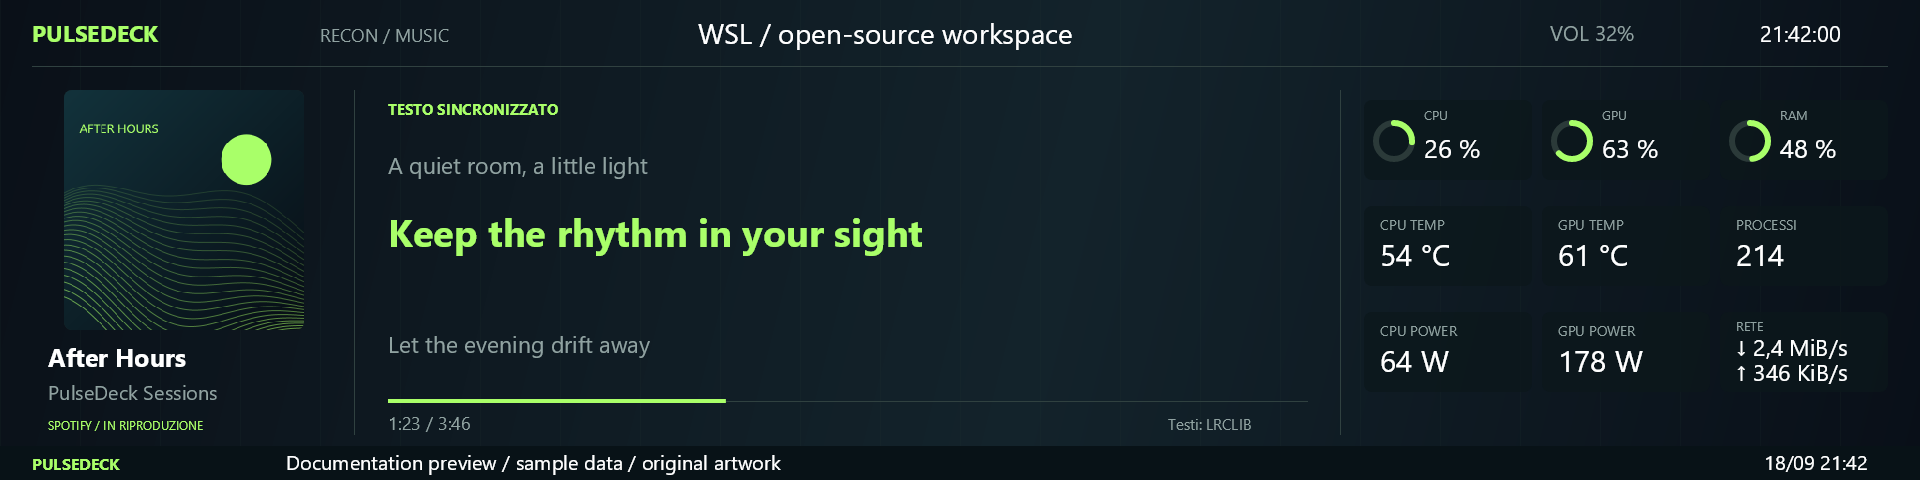
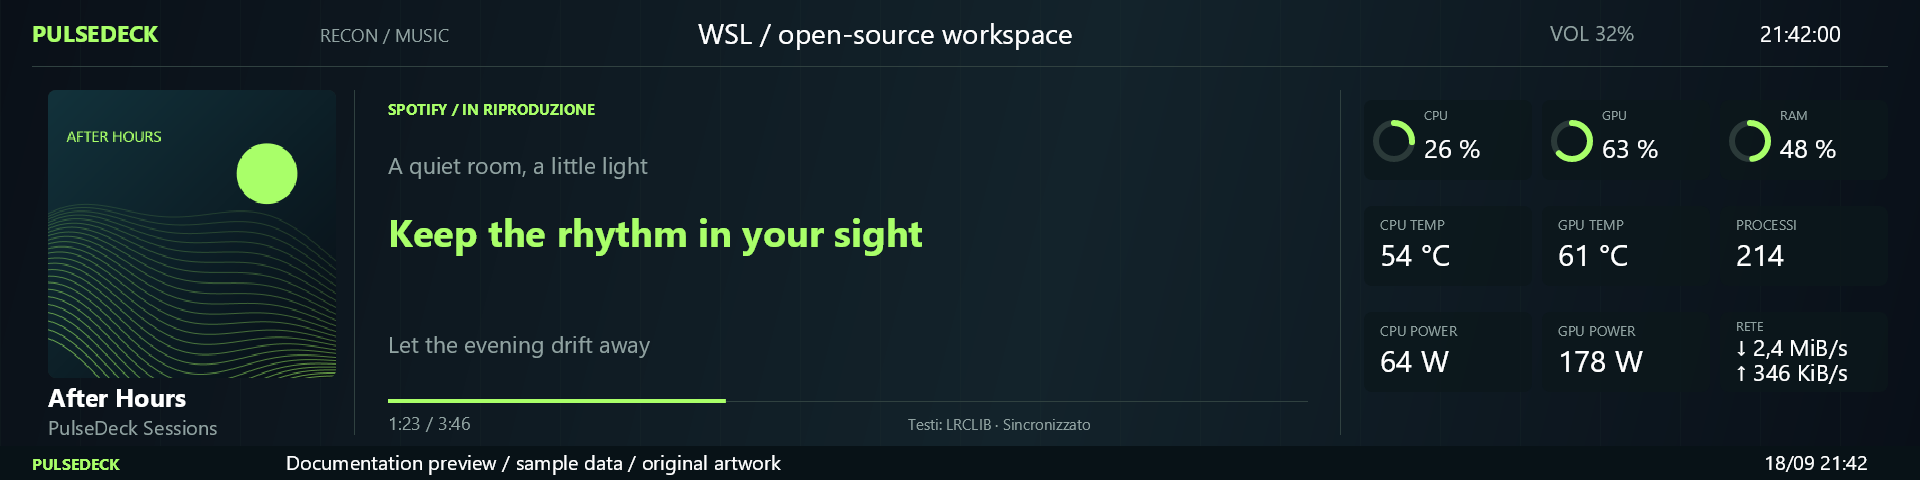
feat(music): enlarge cover and move playback status above lyrics
Grow the Music cover to 288px and place Spotify playback state above the lyrics. Move synchronization/page details beside LRCLIB attribution, preserving the nine-sensor composition.

Pass 23 renderer tests, build and deploy 0.7.4 with preserved runtime settings, and verify the live Music preview and display acknowledgements. Refresh the public gallery and draft release notes to match.

diff --git a/apps/configurator/src/app/app.component.html b/apps/configurator/src/app/app.component.html
@@ -30,6 +30,6 @@
     } @else {
       @if (deck.config(); as config) { <pd-settings [newsState]="deck.state()?.news ?? null" [config]="config" [busy]="deck.busy()" (save)="save($event)" /> }
     }
-    <footer><span>PULSEDECK / LOCAL DISPLAY ENGINE</span><button class="button" [disabled]="!deck.connected()" (click)="deck.stop()">Arresta PulseDeck</button><span>v0.7.3 · Windows</span></footer>
+    <footer><span>PULSEDECK / LOCAL DISPLAY ENGINE</span><button class="button" [disabled]="!deck.connected()" (click)="deck.stop()">Arresta PulseDeck</button><span>v0.7.4 · Windows</span></footer>
   </main>
 </div>

diff --git a/apps/agent/Rendering/DeckRenderer.cs b/apps/agent/Rendering/DeckRenderer.cs
@@ -334,14 +334,16 @@ public sealed class DeckRenderer : IDisposable
         }
         void SpotifyPanel()
         {
-            Cover(64, 90, 240);
-            Text(state.Media.Title.Length > 0 ? state.Media.Title : "Spotify", 48, 367, 25, heavy: true, maxWidth: 290, minimumSize: 19);
-            Text(state.Media.Artist, 48, 400, 20, muted, maxWidth: 290);
-            Text(state.Media.Playing ? "SPOTIFY / IN RIPRODUZIONE" : "SPOTIFY / IN PAUSA", 48, 430, 12, accent, maxWidth: 290);
+            Cover(48, 90, 288);
+            Text(state.Media.Title.Length > 0 ? state.Media.Title : "Spotify", 48, 407, 25, heavy: true, maxWidth: 290, minimumSize: 19);
+            Text(state.Media.Artist, 48, 435, 20, muted, maxWidth: 290);
             canvas.DrawLine(354, 90, 354, 435, line);
             canvas.DrawLine(1340, 90, 1340, 435, line);
             for (var i = 0; i < 9; i++) WidgetCard(i, 1364 + i % 3 * 178, 100 + i / 3 * 106, 168);
             const float x = 388, width = 920;
+            Text(state.SpotifyTransition ? "SPOTIFY / CAMBIO BRANO"
+                : state.Media.Playing ? "SPOTIFY / IN RIPRODUZIONE" : "SPOTIFY / IN PAUSA", x, 115, 15, accent, true, width);
+            var lyricsCredit = "Testi: LRCLIB";
             List<string> Wrap(string value, float size)
             {
                 using var font = new SKFont(bold, size);
@@ -357,12 +359,11 @@ public sealed class DeckRenderer : IDisposable
             }
             if (state.SpotifyTransition || state.Lyrics.Status == "loading")
             {
-                Text("SPOTIFY", x, 115, 15, accent, true);
                 Text(state.SpotifyTransition ? "Cambio brano…" : "Caricamento del testo…", x, 247, 32, muted, maxWidth: width);
             }
             else if (state.Lyrics.Status == "synced" && state.Lyrics.Lines is { } lines)
             {
-                Text("TESTO SINCRONIZZATO", x, 115, 15, accent, true);
+                lyricsCredit += " · Sincronizzato";
                 var index = state.Lyrics.CurrentLine(state.Media.PositionSeconds);
                 if (index > 0) Text(lines[index - 1].Text, x, 174, 23, muted, maxWidth: width);
                 var current = index >= 0 ? lines[index].Text : "";
@@ -375,7 +376,7 @@ public sealed class DeckRenderer : IDisposable
                 var rows = (state.Lyrics.PlainText ?? "").Split('\n').SelectMany(row => Wrap(row.Trim(), 26)).ToArray();
                 var pages = Math.Max(1, (rows.Length + 5) / 6);
                 var page = (int)(state.Timestamp.ToUnixTimeSeconds() / 15 % pages);
-                Text($"TESTO NON SINCRONIZZATO · {page + 1}/{pages}", x, 115, 15, muted);
+                lyricsCredit += $" · Non sincronizzato · {page + 1}/{pages}";
                 for (var i = 0; i < 6 && page * 6 + i < rows.Length; i++) Text(rows[page * 6 + i], x, 163 + i * 36, 26, maxWidth: width);
             }
             canvas.DrawLine(x, 401, x + width, 401, line);
@@ -384,7 +385,7 @@ public sealed class DeckRenderer : IDisposable
             if (duration > 0) canvas.DrawRect(x, 399, (float)(position / duration) * width, 4, accentPaint);
             Text(duration > 0 ? TimeSpan.FromSeconds(position).ToString(@"m\:ss") + " / "
                 + TimeSpan.FromSeconds(duration).ToString(@"m\:ss") : "— / —", x, 430, 18, muted);
-            Text("Testi: LRCLIB", x + width - 140, 430, 15, muted, maxWidth: 140);
+            Text(lyricsCredit, x + width - 400, 430, 15, muted, maxWidth: 400);
         }
         void VoiceHeader()
         {

diff --git a/apps/agent/Program.cs b/apps/agent/Program.cs
@@ -16,7 +16,7 @@ builder.Services.AddHttpClient("youtube-artwork", client =>
     { client.Timeout = TimeSpan.FromSeconds(1); client.MaxResponseContentBufferSize = MediaArtwork.MaximumBytes; })
     .ConfigurePrimaryHttpMessageHandler(() => new HttpClientHandler { AllowAutoRedirect = false, UseCookies = false });
 builder.Services.AddSingleton<MediaProvider>();
-builder.Services.AddHttpClient("lyrics", client => { client.Timeout = TimeSpan.FromSeconds(8); client.MaxResponseContentBufferSize = 256 * 1024; client.DefaultRequestHeaders.UserAgent.ParseAdd("PulseDeck/0.7.3"); })
+builder.Services.AddHttpClient("lyrics", client => { client.Timeout = TimeSpan.FromSeconds(8); client.MaxResponseContentBufferSize = 256 * 1024; client.DefaultRequestHeaders.UserAgent.ParseAdd("PulseDeck/0.7.4"); })
     .ConfigurePrimaryHttpMessageHandler(() => new HttpClientHandler { AllowAutoRedirect = false, UseCookies = false });
 builder.Services.AddSingleton(p => new LyricsProvider(p.GetRequiredService<IHttpClientFactory>().CreateClient("lyrics"), p.GetRequiredService<ConfigStore>()));
 builder.Services.AddSingleton<InstalledGameCatalog>();
@@ -35,7 +35,7 @@ builder.Services.AddHttpClient("game-artwork", client => { client.Timeout = Time
 builder.Services.AddSingleton(provider => new GameArtworkProvider(provider.GetRequiredService<IHttpClientFactory>().CreateClient("game-artwork"), provider.GetRequiredService<ConfigStore>(), provider.GetRequiredService<SteamGridArtwork>()));
 builder.Services.AddHttpClient("weather", client => { client.Timeout = TimeSpan.FromSeconds(5); client.MaxResponseContentBufferSize = 65536; });
 builder.Services.AddSingleton(provider => new WeatherFeed(provider.GetRequiredService<IHttpClientFactory>().CreateClient("weather")));
-builder.Services.AddHttpClient("news", client => { client.Timeout = TimeSpan.FromSeconds(8); client.DefaultRequestHeaders.UserAgent.ParseAdd("PulseDeck/0.7.3"); })
+builder.Services.AddHttpClient("news", client => { client.Timeout = TimeSpan.FromSeconds(8); client.DefaultRequestHeaders.UserAgent.ParseAdd("PulseDeck/0.7.4"); })
     .ConfigurePrimaryHttpMessageHandler(NewsHttp.CreateHandler);
 builder.Services.AddSingleton(provider => new NewsFeed(provider.GetRequiredService<IHttpClientFactory>().CreateClient("news")));
 builder.Services.AddSingleton<EmbeddedDiscordService>();

diff --git a/tests/PulseDeck.Rendering.Tests/RendererTests.cs b/tests/PulseDeck.Rendering.Tests/RendererTests.cs
@@ -7,6 +7,19 @@ using Xunit;
 public class RendererTests
 {
     [Fact]
+    public void MusicPlaybackStatusChangesLyricsHeaderWithoutChangingCoverColumn()
+    {
+        using var renderer = new DeckRenderer();
+        var media = new MediaSnapshot(true, "Synthetic track", "Artist", "Spotify.exe", 2, 180, "connected");
+        var state = State with { Profile = "music", Media = media, Lyrics = new("synced", SpotifyLyrics.Key(media), [new(0, "Original fixture line")]) };
+        var playing = renderer.Render(state, new());
+        var paused = renderer.Render(state with { Media = media with { Playing = false } }, new());
+        for (var y = 90; y < 440; y++)
+            Assert.True(playing.Pixels.AsSpan((y * 1920 + 32) * 4, 322 * 4).SequenceEqual(paused.Pixels.AsSpan((y * 1920 + 32) * 4, 322 * 4)));
+        Assert.Contains(Enumerable.Range(90, 30), y =>
+            !playing.Pixels.AsSpan((y * 1920 + 388) * 4, 920 * 4).SequenceEqual(paused.Pixels.AsSpan((y * 1920 + 388) * 4, 920 * 4)));
+    }
+    [Fact]
     public void MusicRamShowsOnlyPercentageWhileDesktopKeepsCapacity()
     {
         using var renderer = new DeckRenderer();

diff --git a/scripts/package-release.py b/scripts/package-release.py
@@ -10,7 +10,7 @@ from pathlib import Path
 
 root = Path(__file__).resolve().parent.parent
 parser = argparse.ArgumentParser(description=__doc__)
-parser.add_argument('--tag', required=True, help='Version label, e.g. v0.7.3')
+parser.add_argument('--tag', required=True, help='Version label, e.g. v0.7.4')
 args = parser.parse_args()
 version = ET.parse(root / 'apps/agent/PulseDeck.Agent.csproj').findtext('.//Version')
 if not re.fullmatch(r'v\d+\.\d+\.\d+', args.tag) or args.tag != 'v' + version:

diff --git a/docs/validation.md b/docs/validation.md
@@ -1555,3 +1555,30 @@ Sources: [LRCLIB API](https://lrclib.net/docs),
   configuring repository metadata/social preview and publishing a release require
   the repository owner's authenticated GitHub settings. No visibility change or
   public release is claimed by this preparation.
+
+## Music cover and playback heading — 2026-09-18 (0.7.4)
+
+- Moved Spotify playback/paused/track-transition status above the central lyrics.
+  The cover grows from 240×240 to 288×288, with title and artist below it.
+  Synchronized/plain lyrics status and plain-text page numbers now sit beside
+  `Testi: LRCLIB` in the footer, preserving source attribution and timing clarity.
+- All 23 renderer/provider tests passed. The new region regression verifies that
+  play/pause changes the lyrics heading without changing the cover/title column.
+  Existing track-loading geometry, stale-lyrics, nine-widget and RAM checks passed.
+  Angular production build and self-contained Windows publish passed.
+- Regenerated the public Music screenshot and README cover with the production
+  renderer on Windows and original documentation fixtures; visually inspected the
+  larger artwork, text spacing and footer. Recaptured the actual configurator with
+  the updated version. Local documentation links and actionlint checks passed.
+- Initial public-presentation sources were pushed to the existing GitHub remote
+  at commit `6237019`. Its local v0.7.3 Windows/source archives passed ZIP integrity
+  and SHA-256 verification. The launch notes/examples now target v0.7.4 to include
+  the layout refinement. Repository visibility/release publication remains separate
+  from authenticated Git transport; no public release has been created.
+- Deployed 0.7.4 after the old agent/task exited; backup
+  `%LOCALAPPDATA%\PulseDeck\before-music-074-20260918-123132`.
+  Configuration and Discord/SteamGridDB credentials preserved. Live state returned
+  Music with synchronized Spotify lyrics, verified COM5 identity and acknowledged
+  full/partial frames without transport errors. The private live preview confirmed
+  the larger cover and moved playback/lyrics-status labels. That preview remains
+  outside source control; only synthetic images are used for public documentation.

diff --git a/docs/publishing.md b/docs/publishing.md
@@ -31,7 +31,7 @@ The first public introduction should link to the README, gallery, setup guide an
 3. Commit the exact source being packaged. For a local review archive:
 
    ```sh
-   python3 scripts/package-release.py --tag v0.7.3
+   python3 scripts/package-release.py --tag v0.7.4
    ```
 
    This creates a Windows ZIP, a corresponding-source ZIP and `SHA256SUMS` under ignored `artifacts/release`. It does not create a tag or upload anything. The output directory must be empty so files from different versions cannot be mixed. Version metadata is checked; a fresh build remains necessary to establish same-version source parity.
@@ -39,8 +39,8 @@ The first public introduction should link to the README, gallery, setup guide an
 4. Once the commit is ready, create and push the matching tag:
 
    ```sh
-   git tag -a v0.7.3 -m "PulseDeck 0.7.3 public preview"
-   git push origin v0.7.3
+   git tag -a v0.7.4 -m "PulseDeck 0.7.4 public preview"
+   git push origin v0.7.4
    ```
 
 5. In GitHub Actions, run **Prepare draft release** with that existing tag. The workflow validates the version, rebuilds/tests the tag and creates a **draft prerelease** with archives, source, checksums and the version's release notes.

diff --git a/docs/releases/v0.7.4.md b/docs/releases/v0.7.4.md
@@ -1,4 +1,4 @@
-# PulseDeck 0.7.3 · Public preview
+# PulseDeck 0.7.4 · Public preview
 
 A Windows companion for the TURZX 8.8″ 1920×480 panel, with Desktop, Gaming and Spotify Music layouts.
 
@@ -10,6 +10,7 @@ This is an early development preview for the verified `chs_88inch.dev1_rom1.90` 
 - Steam/EA discovery, optional game artwork, process-session timer and PresentMon application FPS.
 - Discord roster and optional Gaming speaking activity.
 - Windows media, optional YouTube main-player extension and Spotify lyrics from LRCLIB.
+- Larger Music cover art, playback status above the lyrics and synchronization details beside the lyrics attribution.
 - Nine Music sensors, percentage-only RAM, Terminal tab titles and an installed Tux icon for WSL-prefixed tabs.
 - Local configuration, encrypted credentials and bounded USB recovery.
 

diff --git a/docs/gallery.md b/docs/gallery.md
@@ -20,7 +20,7 @@ Voice activity, sensors, original sample game artwork, elapsed session time and 
 
 ![Music documentation fixture](images/music.png)
 
-Spotify-style track state, original sample lyric lines and nine sensors. The RAM ring shows only the percentage in this composition.
+Spotify-style track state, original sample lyric lines and nine sensors. The larger cover sits beside the lyrics, with playback status above them and synchronization details beside the attribution. The RAM ring shows only the percentage in this composition.
 
 ## Configurator
 
